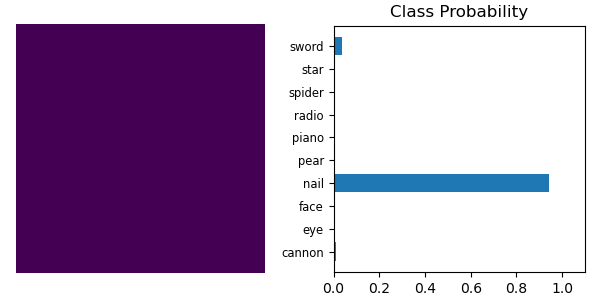
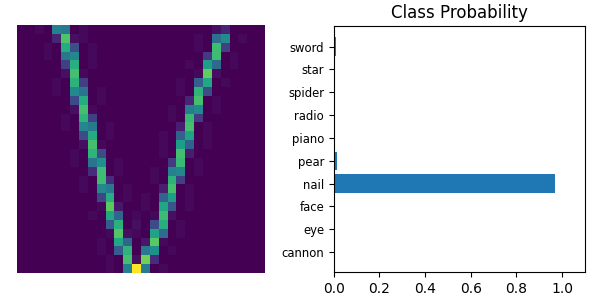
prepare merge

diff --git a/templates/result_revenge.html b/templates/result_revenge.html
@@ -17,13 +17,13 @@
     <body>
         <div class = "container">
             <div style=" text-align: center; margin: 3% 3% auto;">
-                <img  src="static/jumbotron.png"  alt ="classified image"  width="400" height="400" > 
+                <img  src="../static/revenge.png?dummy=8484744"  alt ="classified image" class="NO-CACHE" width="400" height="400" > 
             </div>
             <main class = "main">
                     <div style="font-family: colored-crayons-font; font-size: 30px; margin-top: 30px; margin-bottom: 10px; padding: 10px;">
                         <div style="background-color: #ffffff; ">
-                            <p>You are wrong!</p>
-                            <p>It is a(an) apple!</p>
+                            <p id="result_text"></p>
+                            <p id="result_text2"></p>
                         </div>             
                     </div>
                 <div style="background-color: #ffffff;">
@@ -36,6 +36,27 @@
                         <input class="btn btn-primary col-md-1" type="button" value="go to start menu" id="btn">
                     </a>
                 </div>
+                <script type="text/javascript">
+                    var query = window.location.search.substring(1);
+                    var Field=query.split("=");
+                    var prediction = Field[1].split('&')[0];
+                    var real = Field[2];
+                    if (real === prediction) {
+                        document.getElementById("result_text").innerHTML = "You are correct!";
+                    } else {
+                        document.getElementById("result_text").innerHTML = "You are wrong!";
+                        document.getElementById("result_text2").innerHTML = "It is a(an) " + real + "!";
+                    }
+                    console.log(Field);
+                    // 
+                </script>
+                <script>
+                    var nods = document.getElementsByClassName('NO-CACHE');
+                    for (var i = 0; i < nods.length; i++)
+                    {
+                        nods[i].attributes['src'].value += "?a=" + Math.random();
+                    }
+                </script>
             </main>
         </div>
     </body>

diff --git a/templates/revenge.html b/templates/revenge.html
@@ -18,15 +18,24 @@
     <body>
         <div class = "container">
             <div style=" text-align: center; margin: 3% auto;">
-                <img  src="static/jumbotron.png"  alt ="classified image"  width="400" height="400" > 
+                <img  src="../static/revenge.png?dummy=8484744"  alt ="classified image"   class="NO-CACHE" width="400" height="400" > 
             </div>
             <main class = "main">
                 <div style="background-color: #ffffff; font-family: colored-crayons-font; font-size: 30px; padding-top: 20px;">
                     <p>What is this?</p>
+                    <p>(Candidates: aaron_sheep, catbus, elephantpig, flamingo, owl)</p>
                     <form action= "result_revenge" method ="GET">
                         <input type = "text" style = "font-size: 30px; font-family: colored-crayons-font; width:280px;" name= "class">
-                        <input type="submit"id="btn"value="predict!">
+                        <input type = "text" style = "width:1px;" name= "real" value="{{modelName}}">
+                        <input type="submit" id="btn" value="predict!">
                     </form>
+                    <script>
+                        var nods = document.getElementsByClassName('NO-CACHE');
+                        for (var i = 0; i < nods.length; i++)
+                        {
+                            nods[i].attributes['src'].value += "?a=" + Math.random();
+                        }
+                    </script>
                 </div>
             </main>
         </div>

diff --git a/app.py b/app.py
@@ -53,6 +53,43 @@ from datetime import datetime
 
 
 
+
+# import the required libraries
+import numpy as np ## Downgrade numpy to 1.16.3
+import time
+import random
+#import cPickle
+import codecs
+import collections
+import os
+import math
+import json
+import random
+import tensorflow as tf
+from six.moves import xrange
+import svgwrite
+
+# import matplotlib for plotting
+from matplotlib.pyplot import imshow
+import matplotlib.pyplot as plt
+
+from svglib.svglib import svg2rlg
+from reportlab.graphics import renderPM
+
+# import Flask
+from flask import Flask
+from flask import render_template, request
+
+from sketch_rnn.sketch_rnn_train import *
+from sketch_rnn.model import *
+from sketch_rnn.utils import *
+from sketch_rnn.rnn import *
+
+from sketch_generation_demo.functions import draw_strokes, make_grid_svg, load_env_compatible, load_model_compatible, encode, decode
+
+
+
+
 # Dictionary with label codes
 label_dict = {0:'cannon',1:'eye', 2:'face', 3:'nail', 4:'pear',
               5:'piano',6:'radio', 7:'spider', 8:'star', 9:'sword'}
@@ -199,6 +236,48 @@ def view_classify(img, preds):
         print("about to write to label.txt")
         f.write('\n' + datetime.now().strftime('%Y-%m-%d %H:%M:%S') + ';' + label_list[label_1] + ';' + label_list[label_2] + ';' + label_list[label_3])
 
+def main() : 
+    models_root_dir = './sketch_generation_demo/pretrained_model'
+    model_list = ["aaron_sheep/layer_norm", "catbus/lstm", "elephantpig/lstm", "flamingo/lstm", "owl/lstm"]
+    model_name = random.choice(model_list)
+    model_dir = os.path.join(models_root_dir, model_name)
+    base_model_dir = os.path.join(models_root_dir, "aaron_sheep/layer_norm")
+    data_dir = 'http://github.com/hardmaru/sketch-rnn-datasets/raw/master/aaron_sheep/'
+
+    [train_set, valid_set, test_set, hps_model, eval_hps_model, sample_hps_model] = load_env_compatible(data_dir, base_model_dir)
+    [hps_model, eval_hps_model, sample_hps_model] = load_model_compatible(model_dir)
+
+    reset_graph()
+    model = Model(hps_model, tf.compat.v1.disable_eager_execution())
+    eval_model = Model(eval_hps_model, reuse=True)
+    sample_model = Model(sample_hps_model, reuse=True)
+
+    sess = tf.InteractiveSession()
+    sess.run(tf.global_variables_initializer())
+
+    load_checkpoint(sess, model_dir)
+
+    
+    N = 1
+    reconstructions = []
+    for i in range(N):
+        reconstructions.append([decode(sess, sample_model, eval_model, temperature=0.5, draw_mode=False), [0, i]])
+
+    stroke_grid = make_grid_svg(reconstructions)
+    draw_strokes(stroke_grid)
+
+    drawing = svg2rlg("./tmp/svg/sample.svg")
+
+    ts = time.time()
+    filename = "./sketch_generation_demo/tmp/png/test" + str(ts) + ".png"
+    renderPM.drawToFile(drawing, filename, fmt="PNG")
+
+    renderPM.drawToFile(drawing, "./static/revenge.png", fmt="PNG")
+    # label + revenge + time.png
+
+    return model_name.split('/')[0]
+
+
 
 
 app = Flask(__name__)
@@ -207,6 +286,8 @@ app = Flask(__name__)
 model, input_size, output_size = load_model()
 model.eval() # set to evaluation
 
+modelName = ''
+
 @app.route('/')
 def start():
 	return render_template('start.html')
@@ -214,9 +295,11 @@ def start():
 @app.route('/canvas')
 def canvas():
 	return render_template('canvas.html')
+
 @app.route('/gallery')
 def gallery():
 	return render_template('gallery.html')
+
 @app.route('/result_revenge')
 def result_revenge():
 	return render_template('result_revenge.html')
@@ -351,7 +434,7 @@ def pred(dataURL):
 
 @app.route('/revenge')
 def revenge():
-	return render_template('revenge.html')
+    return render_template('revenge.html', modelName=modelName)
 
 @app.route('/statistics/<rightCount>')
 def statisticsRight(rightCount):
@@ -365,6 +448,7 @@ def statistics():
 	return render_template('statistics.html')
 
 if __name__ == '__main__':
+    modelName = main()
     basedir = os.path.abspath(os.path.dirname(__file__))
     dbfile = os.path.join(basedir, 'db.sqlite')
     
